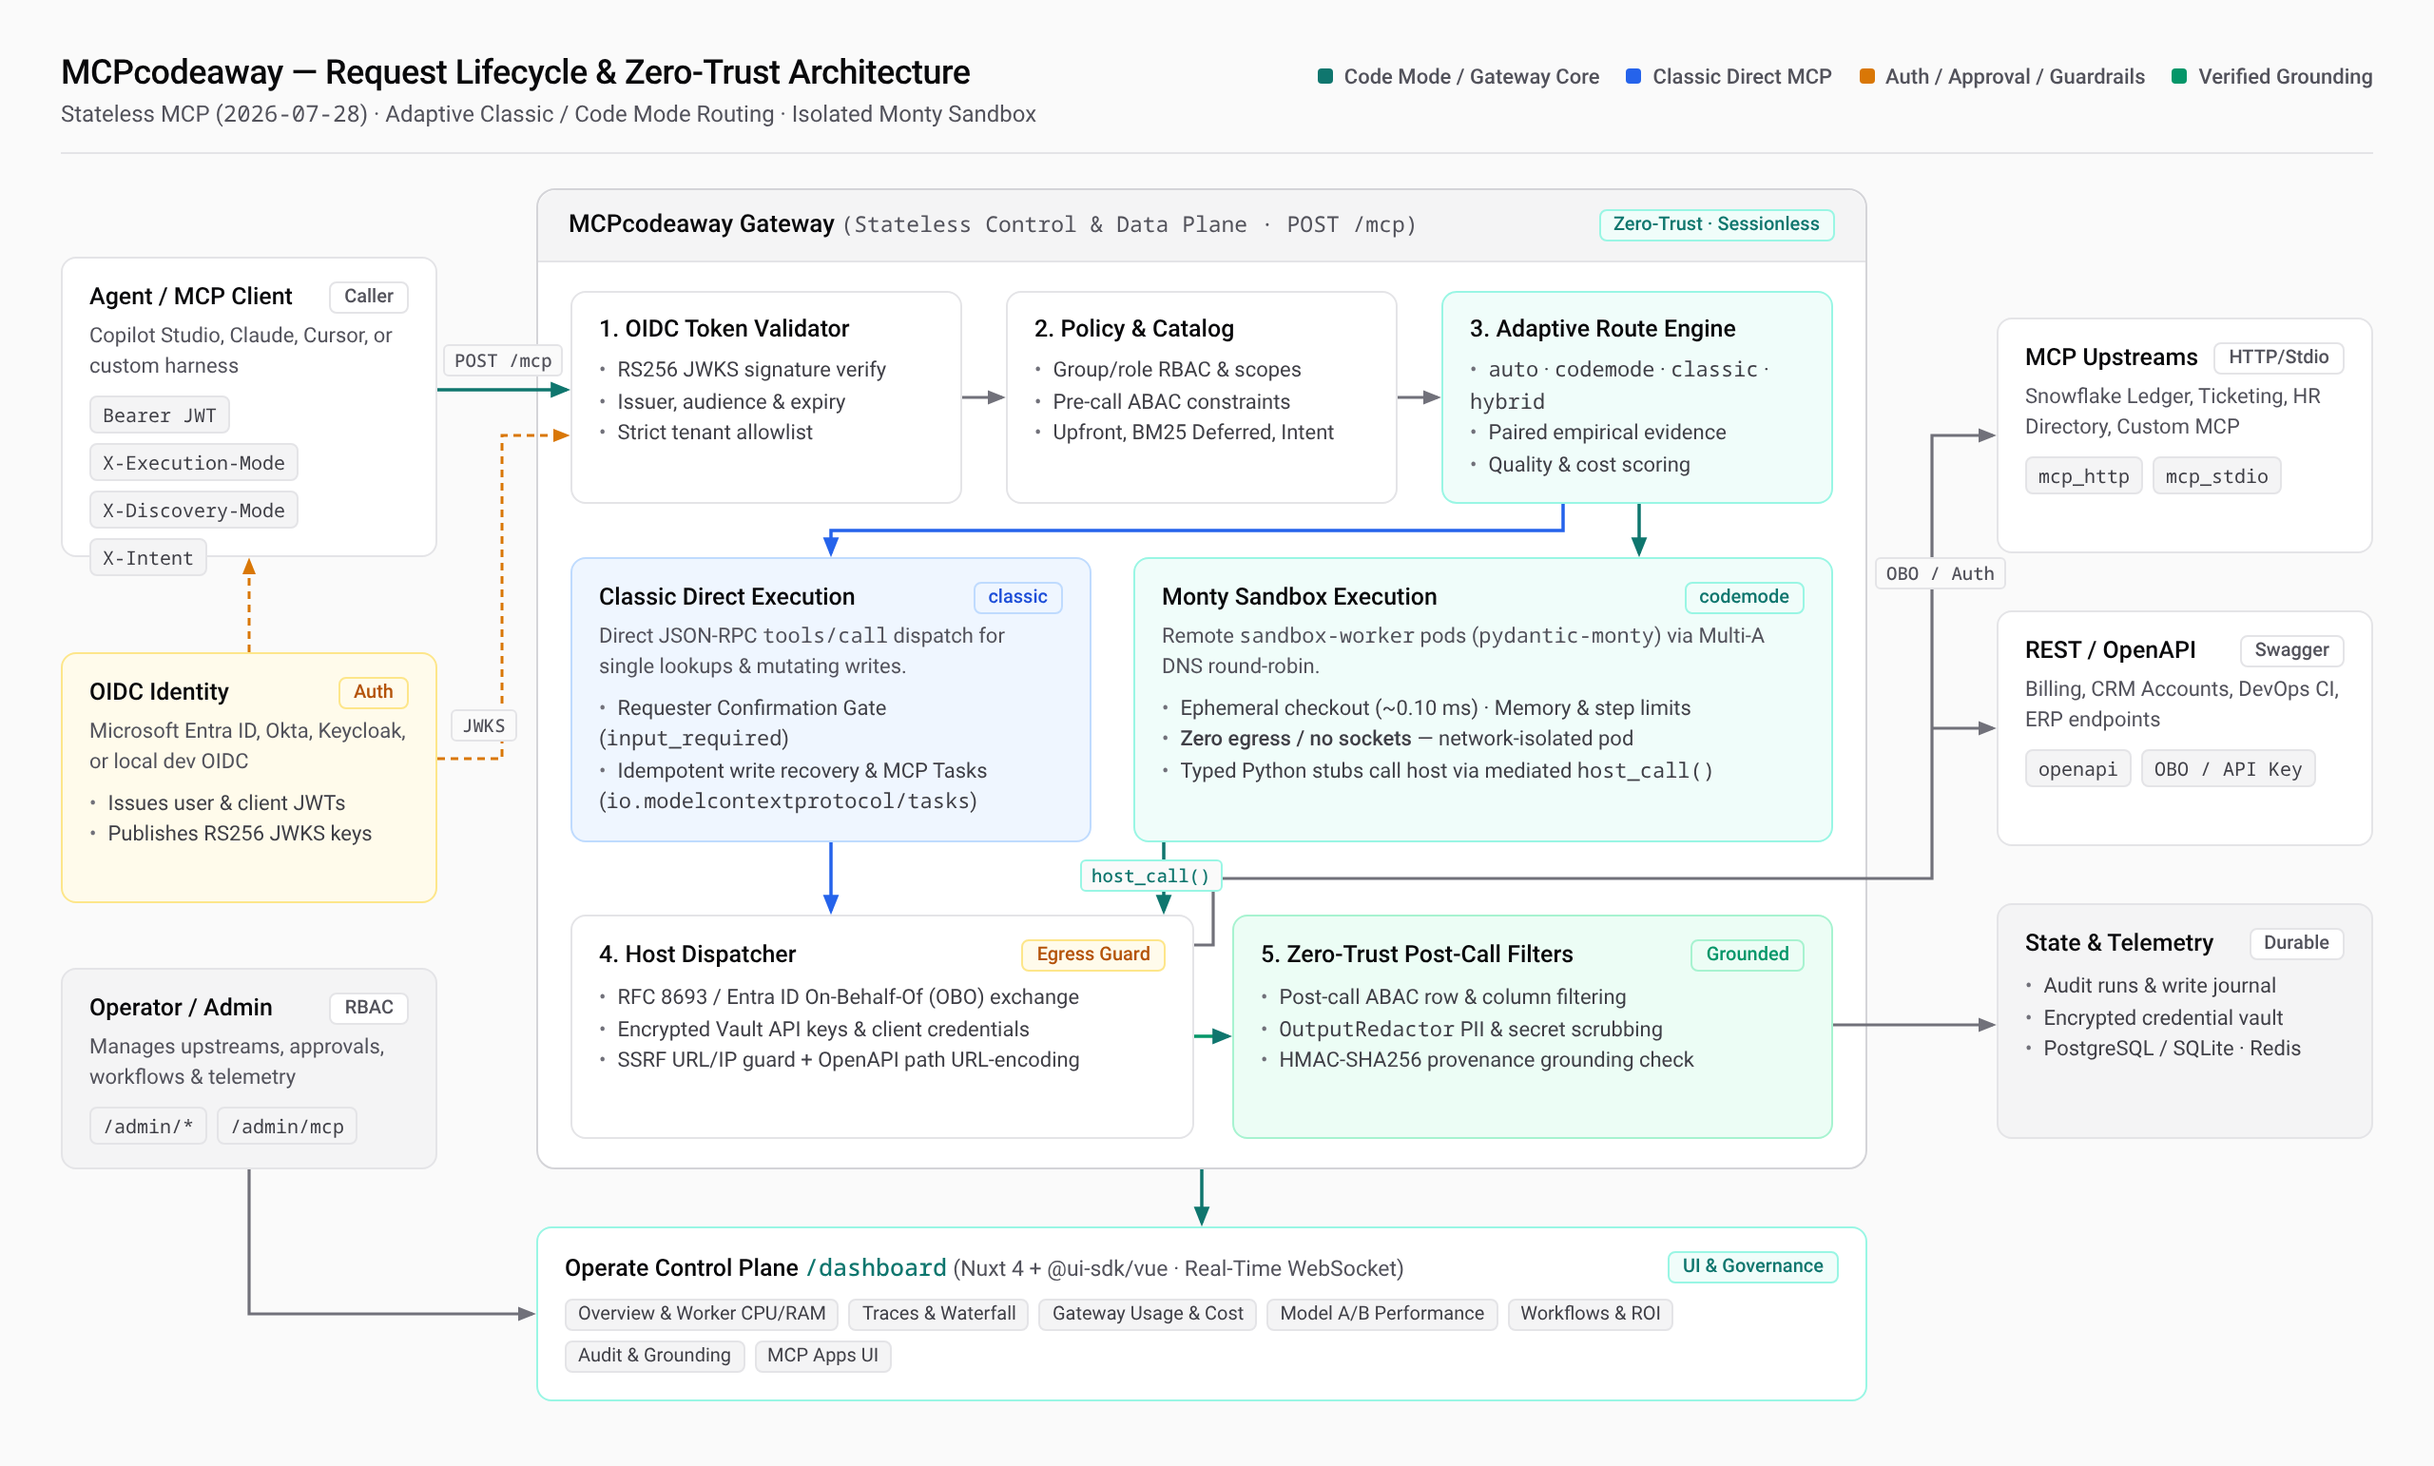
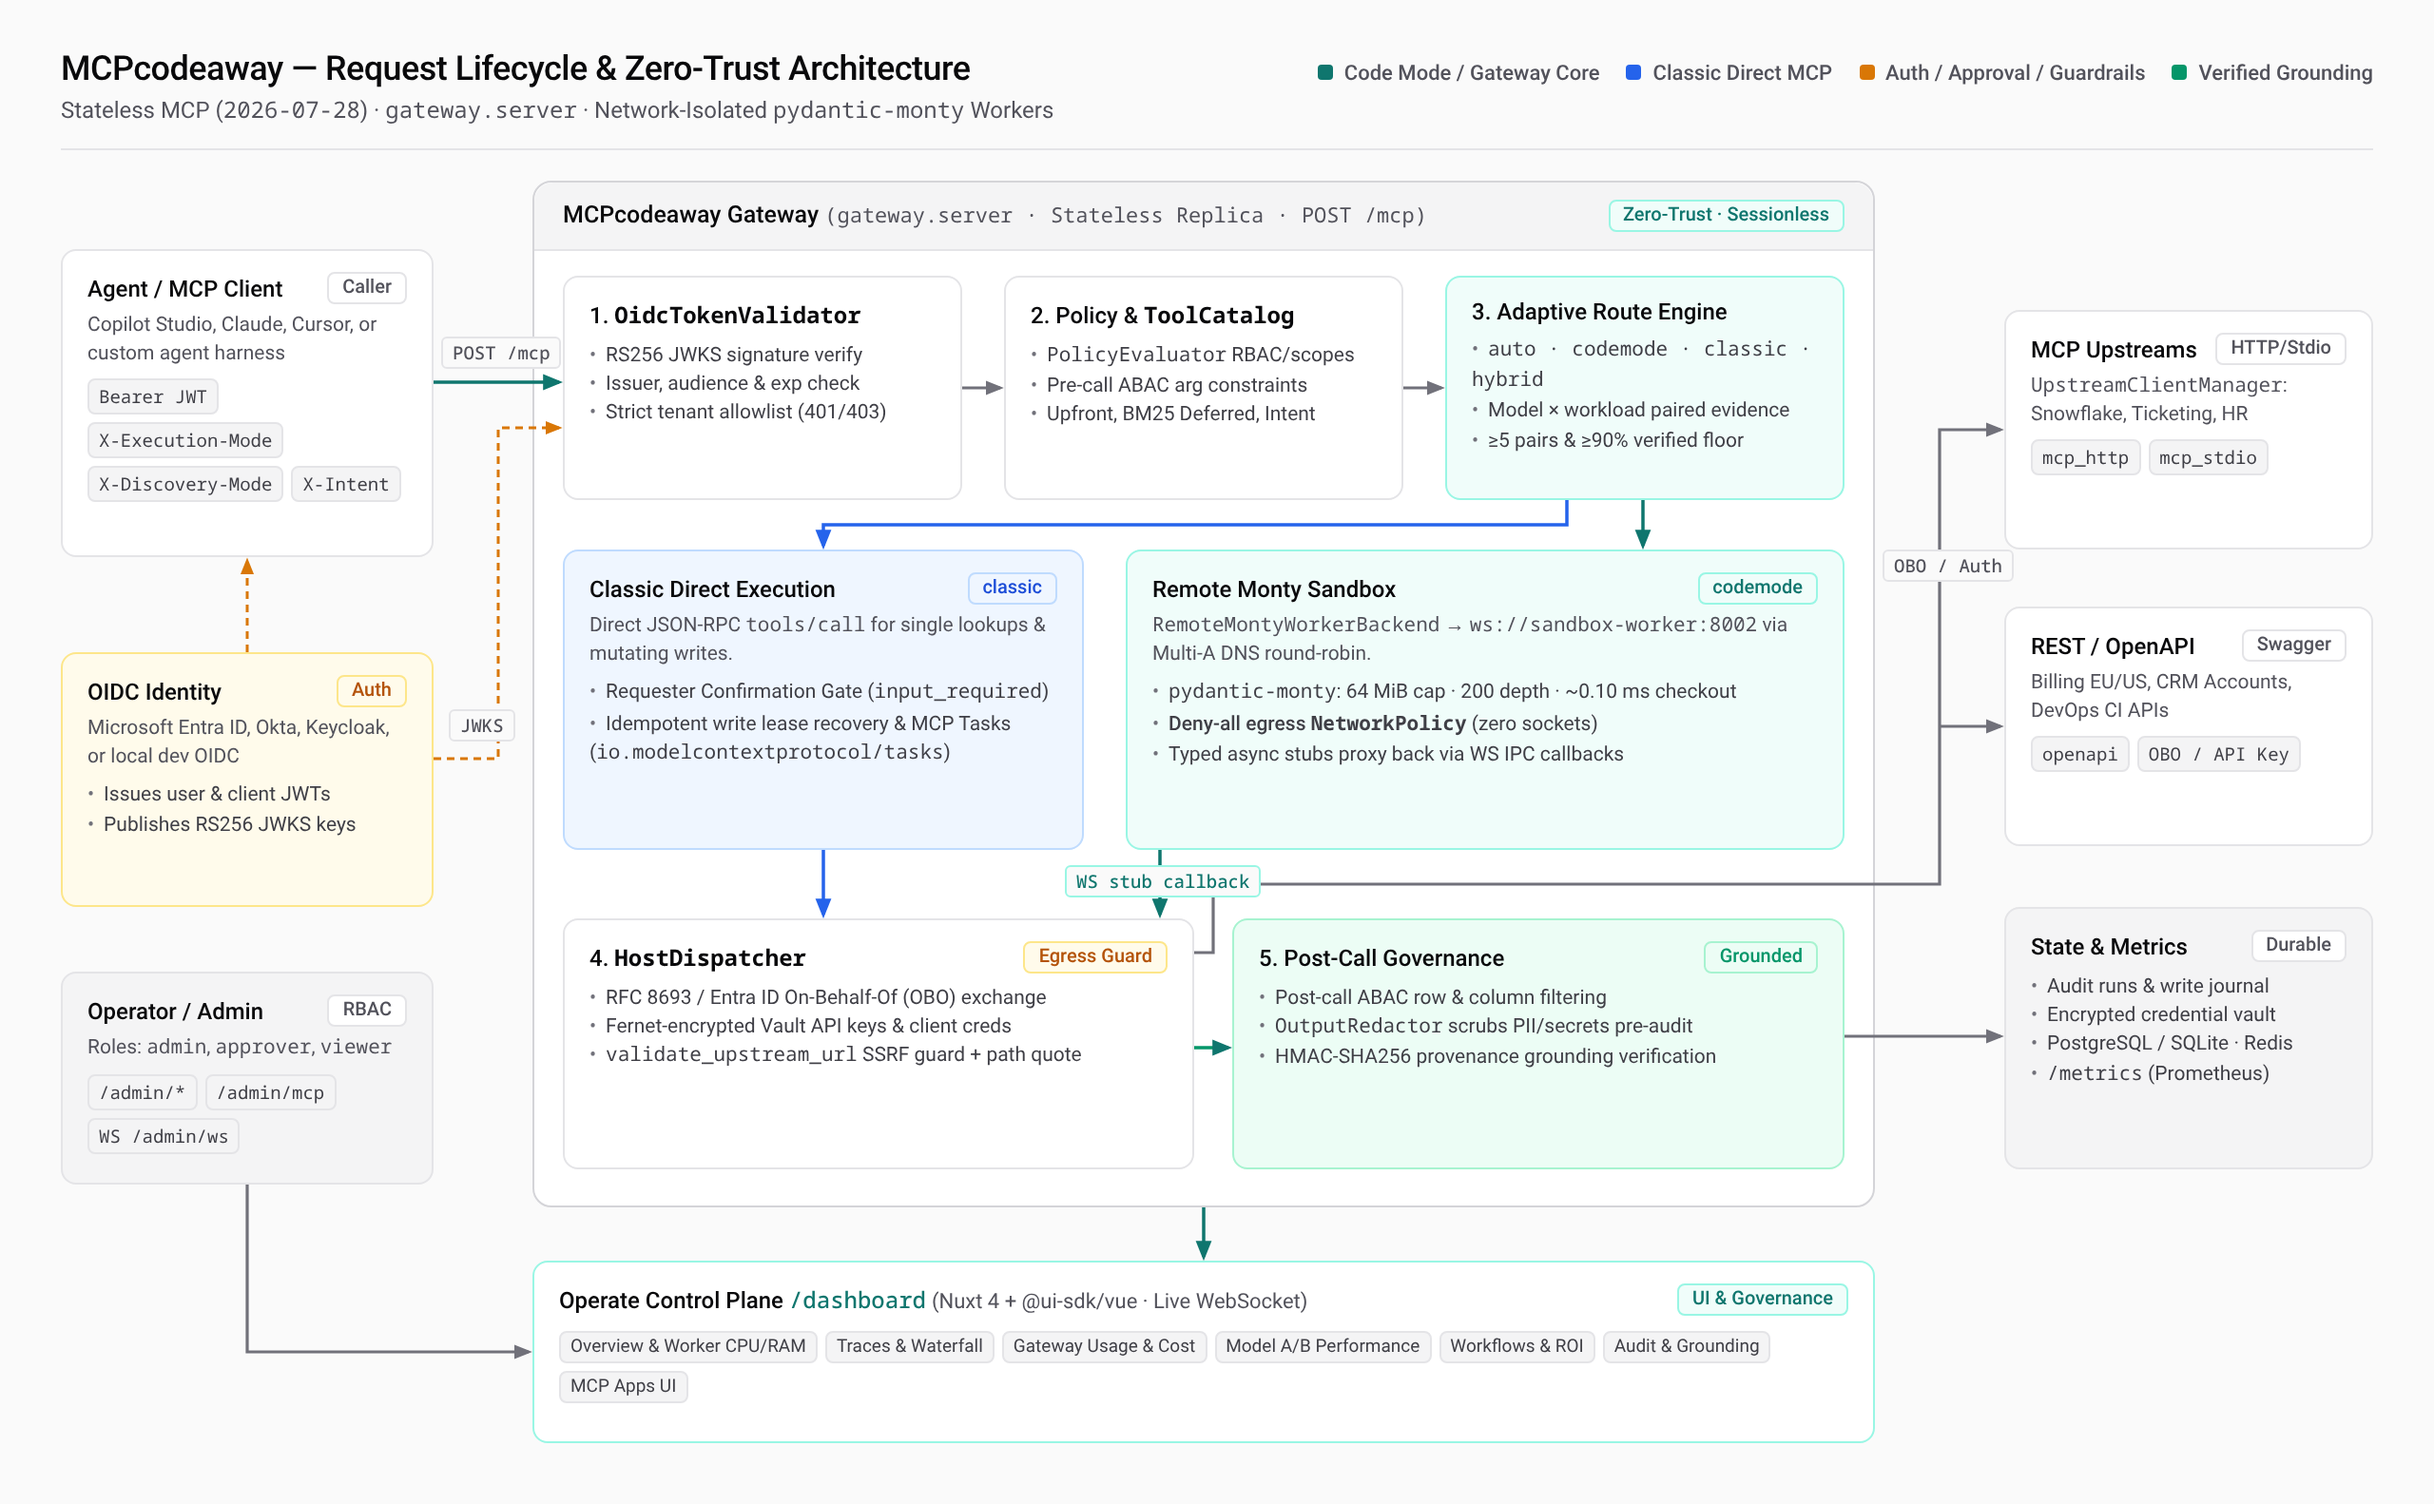
docs(readme): compact UI gallery table and refine diagrams with verified benchmark values

diff --git a/README.md b/README.md
@@ -35,7 +35,7 @@ MCPcodeaway solves this with **server-side Code Mode**:
 4. The client receives a clean, grounded summary — reducing token usage by **46%+** and cutting latency in half.
 
 <p align="center">
-  <img src="docs/images/codemode-vs-classic.png" alt="Classic MCP turn-by-turn tool calls vs. MCPcodeaway server-side Code Mode in Monty sandbox" width="100%">
+  <img src="docs/images/codemode-vs-classic.png" alt="Classic MCP turn-by-turn tool calls vs. MCPcodeaway server-side Code Mode in Monty sandbox" width="820">
 </p>
 
 ---
@@ -43,7 +43,7 @@ MCPcodeaway solves this with **server-side Code Mode**:
 ## Architecture
 
 <p align="center">
-  <img src="docs/images/architecture.png" alt="MCPcodeaway Request Lifecycle and Zero-Trust Architecture" width="100%">
+  <img src="docs/images/architecture.png" alt="MCPcodeaway Request Lifecycle and Zero-Trust Architecture" width="840">
 </p>
 
 Every request on `POST /mcp` is stateless and passes through five enforced stages before reaching an upstream service or returning data to the caller:
@@ -116,59 +116,18 @@ Every request on `POST /mcp` is stateless and passes through five enforced stage
 - **Stateless & Sessionless MCP (`2026-07-28`):** Adheres strictly to the modern sessionless MCP specification. Requests are self-contained and independently authorized across load-balanced replicas.
 - **Operate Control Plane (`/dashboard`):** Fully responsive Nuxt 4 + `@ui-sdk/vue` web console with real-time WebSocket telemetry, multi-worker Monty sandbox health cards, unified `Workflows & ROI` governance (`/workflows`), gateway reporting currency & regional labor rate configuration (`/settings`), request traces (`/traces`), usage analytics (`/analytics`), model A/B testing (`/model-performance`), and in-page workflow/prompt drawers across upstreams and MCP Apps (`/upstreams`, `/mcp-ui`).
 
-### Inside a Code Mode Run
-
-Every execution is recorded with full latency attribution, token reduction accounting, executed Monty Python code, and cryptographic provenance verification in **Audit & Compliance**:
-
-<p align="center">
-  <img src="docs/images/ui-audit-waterfall.png" alt="Audit & Compliance inspection drawer showing Code Mode latency waterfall, Monty spawn timing, and grounding verification" width="100%">
-</p>
-
 ---
 
 ## Operate Control Plane (`/dashboard`)
 
-MCPcodeaway ships with an embedded **Nuxt 4** admin console designed for real-time operations, cost governance, and rapid upstream onboarding. All screenshots below are captured live from the demo profile (`docker compose up --build`).
+Embedded **Nuxt 4** admin console captured live against the running demo stack (`docker compose up --build`). Click any thumbnail to open the full-resolution view.
 
-### Overview, Live Stream & Multi-Worker Monty Telemetry
-
-Monitor overall human time saved, token and cost reductions, real-time WebSocket executions, and per-replica health across the gateway and remote `sandbox-worker` pods:
-
-<p align="center">
-  <img src="docs/images/ui-overview-runtime.png" alt="Operate Control Plane Overview showing overall gateway impact, alert rules, and live WebSocket activity stream" width="100%">
-</p>
-
-<p align="center">
-  <img src="docs/images/ui-compute-telemetry.png" alt="Compute and Process Telemetry showing gateway replica and two healthy remote Monty sandbox workers alongside execution mode distribution" width="100%">
-</p>
-
-### Traces & Per-Group Latency Breakdown
-
-Pinpoint where milliseconds go across **Gateway**, **Monty**, **Upstream**, and **Security** stages per caller group, alongside `p50/p95` ephemeral sandbox checkout (`0.10 ms`) and execution times:
-
-<p align="center">
-  <img src="docs/images/ui-traces-timeline.png" alt="Traces and Latency Timeline showing Monty spawn p50/p95 and stacked time spent by caller group" width="100%">
-</p>
-
-### Usage Attribution, Workflows & ROI
-
-Attribute token savings and estimated LLM spend across company groups, users, and client apps—and track verified human-time savings across multi-step workflows with regional labor rate overrides:
-
-<p align="center">
-  <img src="docs/images/ui-gateway-usage.png" alt="Gateway Usage, Groups and Cost Attribution showing per-group Code Mode share and estimated spend" width="100%">
-</p>
-
-<p align="center">
-  <img src="docs/images/ui-workflows-roi.png" alt="Workflows and ROI governance page showing validated baselines, tool chains, and estimated labor value" width="100%">
-</p>
-
-### Interactive MCP Apps UI (`ui://`)
-
-Bind declarative `ui://` views to upstream tools and preview simulated tool outputs inline before agents or end-user hosts render them:
-
-<p align="center">
-  <img src="docs/images/ui-mcp-apps.png" alt="MCP Apps UI view showing bound upstream endpoints and live simulated presentation preview" width="100%">
-</p>
+| Runtime, Telemetry & Traces | Execution, Governance & Apps |
+| :---: | :---: |
+| <a href="docs/images/ui-overview-runtime.png"><img src="docs/images/ui-overview-runtime.png" alt="Overview & Live Runtime" width="420"></a><br><sub>**Overview & Live Runtime** — Token/time savings, alert rules & live WebSocket feed</sub> | <a href="docs/images/ui-compute-telemetry.png"><img src="docs/images/ui-compute-telemetry.png" alt="Multi-Worker Monty Telemetry" width="420"></a><br><sub>**Multi-Worker Telemetry** — Gateway replica, remote `sandbox-worker` pods & mode split</sub> |
+| <a href="docs/images/ui-audit-waterfall.png"><img src="docs/images/ui-audit-waterfall.png" alt="Code Mode Audit & Latency Waterfall" width="420"></a><br><sub>**Audit & Latency Waterfall** — Per-stage ms breakdown, Monty spawn (`0.13 ms`) & HMAC grounding</sub> | <a href="docs/images/ui-traces-timeline.png"><img src="docs/images/ui-traces-timeline.png" alt="Traces & Per-Group Latency" width="420"></a><br><sub>**Traces & Latency Timeline** — `p50/p95` sandbox timing & time spent by caller group</sub> |
+| <a href="docs/images/ui-gateway-usage.png"><img src="docs/images/ui-gateway-usage.png" alt="Gateway Usage & Cost Attribution" width="420"></a><br><sub>**Gateway Usage & Cost** — Per-group Code Mode share, token reduction & spend estimates</sub> | <a href="docs/images/ui-workflows-roi.png"><img src="docs/images/ui-workflows-roi.png" alt="Workflows & ROI" width="420"></a><br><sub>**Workflows & ROI** — Validated time baselines, tool chains & regional labor value</sub> |
+| <a href="docs/images/ui-model-performance.png"><img src="docs/images/ui-model-performance.png" alt="Model Performance & Adaptive Routing" width="420"></a><br><sub>**Model Performance** — Paired Classic vs. Code Mode deltas powering Adaptive Routing</sub> | <a href="docs/images/ui-mcp-apps.png"><img src="docs/images/ui-mcp-apps.png" alt="Interactive MCP Apps UI" width="420"></a><br><sub>**Interactive MCP Apps (`ui://`)** — Declarative UI views & live simulated host preview</sub> |
 
 ---
 
@@ -275,13 +234,7 @@ In paired benchmarks comparing Classic MCP against Code Mode on enterprise workf
 | **GPT-6 Luna (Low)** — Standard Reconciliation | 49,374 tokens (17.3s) | 64,937 tokens (**11.1s**) | Faster execution | 1 vs 3 |
 | **Local Qwen3.5 9B** — Single Lookup | **2,287 tokens** (5/5 verified) | 3,160 tokens (5/5 verified) | Classic preferred | 1 vs 1 |
 
-> See [BENCHMARKS.md](BENCHMARKS.md) for full benchmark methodology, token accounting, and Cloudflare enterprise portal comparisons.
-
-In the console's **Model Performance** view, the gateway continuously compares matched Classic vs. Code Mode pairs per model and workload to power Adaptive Routing recommendations:
-
-<p align="center">
-  <img src="docs/images/ui-model-performance.png" alt="Model Performance page showing adaptive routing policy and matched cohort differences between Code Mode and Classic" width="100%">
-</p>
+> See [BENCHMARKS.md](BENCHMARKS.md) for full benchmark methodology, token accounting, and Cloudflare enterprise portal comparisons. See the **Model Performance** preview in the [Operate Control Plane](#operate-control-plane-dashboard) gallery above for live matched-cohort A/B deltas.
 
 ---
 
